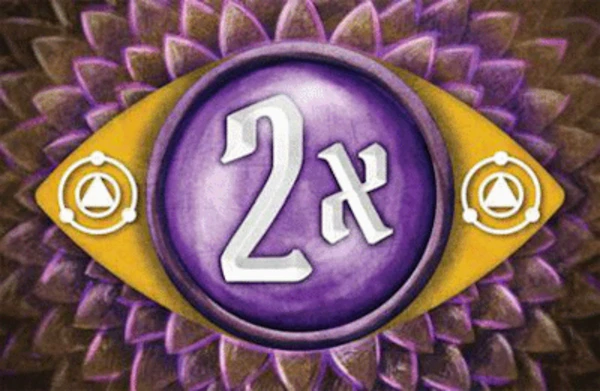
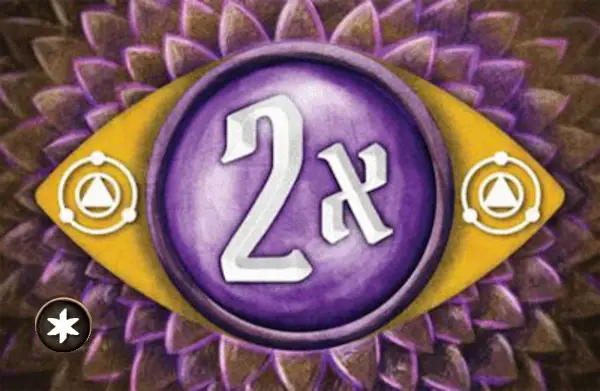
Combine hero/ally bless-curse pool, give ally its own badge, compact GeekRoller codes
Bless/Curse: hero and ally decks now share one combined cap of 10 each
(amIsPartySpecial), separate from the monster deck's own independent
cap of 10. Hero/ally cards show a star badge (from a real card scan),
monster keeps its existing M badge.

Ally deck: base +0/+1/-1/etc cards get their own "A" badge instead of
reusing the monster deck's "M" art, built as an overlay on the existing
clean card art (not a lower-resolution scan) for a crisp, correctly
sized/positioned result.

GeekRoller codes: BGG caps an entire roll at 241 characters total
across every face. Bless/Curse shortened from "Bless"/"Curse" to "B"/"C"
(label unchanged, still used by the UI). Unique-kind perk cards (68 of
them) now use a hand-compacted abbreviation instead of their full perk
text, following the group's existing monster-ability-card shorthand
(M/A/H/S/R/L/T single-letter stats, "->" for Rolling, etc.) --
see docs/unique-geekroller-codes.md for the full derivation. Caught and
fixed one bug before wiring it in: 3 of the 68 labels contained a
literal ";", GeekRoller's own face separator, which would have silently
corrupted the roll.

Changed region(s): [[0.06, 0.7366, 0.15, 0.9207]]

diff --git a/scripts/attackMods.js b/scripts/attackMods.js
@@ -16,14 +16,15 @@ import { MERCENARIES } from './data.js';
 import { heroCatalog, heroPerkClass, perkDelta, perkBoxes, perkLabel, groupPerks } from './amd/heroDeck.js';
 
 // Order = order of faces in the GeekRoller code. Standard cards first, then cards added by imbuement.
+// allyImg: the ally deck's own badge ("A", vs the monster deck's "M") on otherwise identical cards.
 export const AM_TYPES = [
-  { key: 'p0',   face: '+0',   count: 6, value: '+0', img: 'monster/plus0',  shuffle: false },
-  { key: 'p1',   face: '+1',   count: 5, value: '+1', img: 'monster/plus1',  shuffle: false },
-  { key: 'm1',   face: '-1',   count: 5, value: '-1', img: 'monster/minus1',  shuffle: false },
-  { key: 'p2',   face: '+2',   count: 1, value: '+2', img: 'monster/plus2',  shuffle: false },
-  { key: 'm2',   face: '-2',   count: 1, value: '-2', img: 'monster/minus2',  shuffle: false },
-  { key: 'x2',   face: 'x2',   count: 1, value: 'x2', img: 'monster/x2',  shuffle: true  },
-  { key: 'miss', face: 'Miss', count: 1, value: 'null', img: 'monster/miss',  shuffle: true  },
+  { key: 'p0',   face: '+0',   count: 6, value: '+0', img: 'monster/plus0',  allyImg: 'ally/plus0',  shuffle: false },
+  { key: 'p1',   face: '+1',   count: 5, value: '+1', img: 'monster/plus1',  allyImg: 'ally/plus1',  shuffle: false },
+  { key: 'm1',   face: '-1',   count: 5, value: '-1', img: 'monster/minus1', allyImg: 'ally/minus1', shuffle: false },
+  { key: 'p2',   face: '+2',   count: 1, value: '+2', img: 'monster/plus2',  allyImg: 'ally/plus2',  shuffle: false },
+  { key: 'm2',   face: '-2',   count: 1, value: '-2', img: 'monster/minus2', allyImg: 'ally/minus2', shuffle: false },
+  { key: 'x2',   face: 'x2',   count: 1, value: 'x2', img: 'monster/x2',    allyImg: 'ally/x2',     shuffle: true  },
+  { key: 'miss', face: 'Miss', count: 1, value: 'null', img: 'monster/miss', allyImg: 'ally/miss',   shuffle: true  },
   // not in the standard deck (count 0); shown when present or in edit mode
   { key: 'i2m',  face: '+2 Muddle', count: 0, img: 'imbuement/plus2muddle', shuffle: false, extra: true },
   { key: 'i0p',  face: '+0 Poison', count: 0, img: 'imbuement/plus0poison', shuffle: false, extra: true },
@@ -34,9 +35,13 @@ export const AM_TYPES = [
 ];
 
 // Added and removed by hand, temporary. Face text is what goes into the roller code.
+// face is 'B'/'C' (not 'Bless'/'Curse'): up to 10 of each can be in a deck's GeekRoller code at
+// once (the party-wide combined cap, see amIsPartySpecial), and BGG's GeekRoller caps an entire
+// roll at 241 characters total across every face -- so these need to be as short as possible.
+// label stays the full word for the UI (button titles etc.).
 export const AM_SPECIAL = [
-  { key: 'bless', face: 'Bless', img: 'monster/bless', heroImg: 'hero/bless', label: 'Bless', max: 10 },
-  { key: 'curse', face: 'Curse', img: 'monster/curse', heroImg: 'hero/curse', label: 'Curse', max: 10 },
+  { key: 'bless', face: 'B', img: 'monster/bless', heroImg: 'hero/bless', label: 'Bless', max: 10 },
+  { key: 'curse', face: 'C', img: 'monster/curse', heroImg: 'hero/curse', label: 'Curse', max: 10 },
 ];
 
 // Monster imbuement (level 2 includes level 1): changes to the base composition.
@@ -100,6 +105,10 @@ export function amDecks() {
 
 // Hero decks (key 'h<i>') use the hero versions of bless/curse (no monster badge).
 export const amIsHero = g => heroIndex(g) !== undefined;
+
+// Decks whose bless/curse share one combined pool of 10 each (star badge): every hero deck plus
+// the ally deck. The monster deck has its own independent pool of 10 each (M badge).
+export const amIsPartySpecial = g => g === 'a' || amIsHero(g);
 
 // Only the monster deck is imbued.
 export const amSupportsImbue = g => g === 'm';
@@ -215,12 +224,32 @@ export function amReturn(key, g = 'm') {
   save(g, st);
 }
 
+// Current count of `key` (bless/curse) across every party deck (heroes + allies) except `exceptG`.
+function partySpecialTotal(key, exceptG) {
+  let total = exceptG === 'a' ? 0 : (amState('a').deck[key] || 0);
+  (state.mercenaries || []).forEach((h, i) => {
+    const g = 'h' + i;
+    if (g === exceptG || !heroTitle(i)) return;
+    total += amState(g).deck[key] || 0;
+  });
+  return total;
+}
+
+// Highest count deck g's `key` (bless/curse) may reach right now: the monster deck has its own
+// independent cap of spec.max; hero and ally decks share one combined cap of spec.max across the
+// whole party, so a deck's own room shrinks by whatever the rest of the party already holds.
+export function amSpecialCap(key, g) {
+  const spec = AM_SPECIAL.find(s => s.key === key);
+  if (!spec) return 0;
+  return amIsPartySpecial(g) ? Math.max(0, spec.max - partySpecialTotal(key, g)) : spec.max;
+}
+
 // Add (+1) or remove (-1) a bless or curse card.
 export function amAdjust(key, delta, g = 'm') {
   const spec = AM_SPECIAL.find(s => s.key === key);
   if (!spec) return;
   const st = amState(g);
-  const next = Math.max(0, Math.min(spec.max, st.deck[key] + delta));
+  const next = Math.max(0, Math.min(amSpecialCap(key, g), st.deck[key] + delta));
   if (next === st.deck[key]) return;
   st.deck[key] = next;
   save(g, st);

diff --git a/scripts/amd/uniqueFaceText.js b/scripts/amd/uniqueFaceText.js
@@ -1,0 +1,77 @@
+// GeekRoller labels for unique-kind perk cards, hand-compacted from each card's perk text
+// using the abbreviation vocabulary from the group's monster-ability-card convention (M/A/H/S/R/L/T
+// single-letter stats, "->" for Rolling, "immo"/"inv" for the two long condition names, the
+// card's own value separated from the rest by a colon). See docs/unique-geekroller-codes.md for
+// the full derivation and the raw source text each one came from.
+//
+// A code with no entry here falls back to heroDeck.js's generic (longer) text extraction.
+export const UNIQUE_FACE_TEXT = {
+  an1: "+2: strengthen T1 summon",
+  an2: "+1: +1 if drawn by summon",
+  bb1: "active area, next atk: +2A ->",
+  bb2: "-1: gain 1 TT",
+  be1: "+1: suffer dmg2 -> +2",
+  be2: "2x: suffer dmg = half current HP",
+  bn1: "+1: +1/adj ally",
+  bo1: "+1: kill summon: +4 instead",
+  bo2: "H1 T:BO ->",
+  br1: "active area, next atk on you by adj e: Ret2 ->",
+  bs1: "+0: +1/lost card in area",
+  ca1: "+0: bless T:self or 1 ally",
+  ca2: "+2: +1 if monster top card revealed",
+  ca3: "active area, next rift: +1 more R1 ->",
+  ch1: "+1: create 1-hex obstacle adj target ->",
+  cr1: "+1: tide this round: +2 instead",
+  de1: "+0: all adj e suffer dmg1",
+  df1: "+0: move token back 1 slot",
+  ds1: "-1: DS: A2 R5",
+  ds2: "+0: summon adj target: A+0",
+  dt1: "+1: gain 1 trophy",
+  ff1: "+2: create 1-hex icy terrain adj target",
+  ge1: "2x: brittle(self)",
+  ha1: "+0: wound/immo",
+  ha2: "+1: poison/muddle",
+  hv1: "+0: summon: M2",
+  hv2: "+1: Transfer",
+  if1: "+0: move waning elem to strong ->",
+  if2: "+1: per 2 active infusions ->",
+  me1: "+0: gain/lose pressure",
+  me2: "+0: target+adj e suffer dmg1",
+  mt1: "+0: control target: M1",
+  mt2: "+1: +1/neg cond target has",
+  ns1: "+0: adj ally/self: TP2 ->",
+  ns2: "-2: shuffle",
+  ns3: "+1: if kills target: curse->monster deck",
+  ns4: "+1: place TrT adj target",
+  pc1: "+0: +1/neg condition you have",
+  ph1: "+0: PgT: target/e R2",
+  ph2: "poison: target/e R2 ->",
+  py1: "create 1-hex hazard terrain adj target",
+  qm1: "+0: gain 10 Supplies",
+  qm2: "+0: gain Barbed Strip or Iron Plate",
+  qm3: "+0: gain Scroll of Reloc. or Sharp. Dirk ->",
+  sa1: "+1: H1 T1 ally+self",
+  sa2: "+0: ally R3: A2 R3 or A3",
+  sa3: "disarm -> + +0 ally R3: M2 ->",
+  sb1: "-2: adj ally/self: medical pack",
+  sb2: "+1: disarm -> stun",
+  sb3: "+1: +1 if ally has Prescription",
+  sd1: "+0: if forces move: dmg1 ->",
+  sd2: "H1 ward T1 ally ->",
+  sh1: "+0: reveal target's next monster card",
+  sh2: "H2 bless T1 ally ->",
+  sh3: "+1: gain 1 Resonance ->",
+  sk1: "+1: recover lvl1 card (you/adj ally)",
+  sn1: "+1: gain 1 money if atk adj e",
+  so1: "+0: summon: TP2",
+  so2: "+1: inv T1 summon",
+  ss1: "+0: skip moving tokens on active Song",
+  ss2: "ally: M2 or A2 ->",
+  sw1: "+1: +2 if drawn during lost",
+  ta1: "+0: create H2 trap adj target",
+  ta2: "+0: create dmg1 trap adj target",
+  ta3: "+0: trap: +dmg2 or +H2, you R2",
+  ta4: "push2/pull2 to trap ->",
+  wf1: "H2 T:Bear ->",
+  wf2: "+2: +1 if WF+Bear within R4",
+};

diff --git a/scripts/decks.js b/scripts/decks.js
@@ -13,7 +13,7 @@ import { createHoverPreview, previewImage } from './hoverPreview.js';
 import { perkTextHtml } from './amd/perkText.js';
 import { escapeHtml as esc } from './escape.js';
 import {
-  AM_SPECIAL, amDecks, amSupportsImbue, amIsHero, amCardLocked, amState, amClassName, amHeroPerks, amToggleBox, amDeckInfo, amDraw, amReturn, amAdjust,
+  AM_SPECIAL, amDecks, amSupportsImbue, amIsPartySpecial, amSpecialCap, amCardLocked, amState, amClassName, amHeroPerks, amToggleBox, amDeckInfo, amDraw, amReturn, amAdjust,
   amShuffleNow, amEndRoundPatch, amRollerCode, amEditCard, amSetImbue, amResetComposition, AM_MAX_PER_TYPE,
 } from './attackMods.js';
 
@@ -230,7 +230,7 @@ function amTileHtml(c, s, special, g, editMode) {
   let foot;
   if (special) {
     foot = `<div class="am-adj"><button type="button" data-am-adj="${c.key}" data-am-g="${g}" data-d="-1" title="Remove one ${label} card">&minus;</button>
-         <button type="button" data-am-adj="${c.key}" data-am-g="${g}" data-d="1" title="Add one ${label} card" ${n >= c.max ? 'disabled' : ''}>+</button></div>`;
+         <button type="button" data-am-adj="${c.key}" data-am-g="${g}" data-d="1" title="Add one ${label} card" ${n >= amSpecialCap(c.key, g) ? 'disabled' : ''}>+</button></div>`;
   } else if (edit) {
     foot = `<div class="am-adj am-adj--edit"><button type="button" data-am-edit="${c.key}" data-am-g="${g}" data-d="-1" title="Remove one ${label} card from the deck permanently" ${base ? '' : 'disabled'}>&minus;</button>
          <button type="button" data-am-edit="${c.key}" data-am-g="${g}" data-d="1" title="Add one ${label} card to the deck permanently" ${base >= AM_MAX_PER_TYPE ? 'disabled' : ''}>+</button></div>`;
@@ -238,7 +238,11 @@ function amTileHtml(c, s, special, g, editMode) {
     foot = `<button class="am-ret" type="button" data-am-ret="${c.key}" data-am-g="${g}" ${disc ? '' : 'disabled'}
          title="Return one ${label} from the discard to the deck">&#8630; ${disc}</button>`;
   }
-  const src = c.card ? null : assetPath.attackMod(special && c.heroImg && amIsHero(g) ? c.heroImg : c.img);
+  const src = c.card ? null : assetPath.attackMod(
+    g === 'a' && c.allyImg ? c.allyImg :
+    special && c.heroImg && amIsPartySpecial(g) ? c.heroImg :
+    c.img
+  );
   return `<div class="am-tile${!special && !base && !n && !disc ? ' am-tile--none' : ''}">
     <button class="am-card${n ? '' : ' is-empty'}" type="button" data-am-draw="${c.key}" data-am-g="${g}" ${n ? '' : 'disabled'}
         title="${special ? 'Draw (removes the card from the game)' : 'Draw one ' + label}">

diff --git a/scripts/amd/heroDeck.js b/scripts/amd/heroDeck.js
@@ -7,6 +7,7 @@
 //   decorated cards  the art slug, e.g. 'plus0pierce3flip'
 //   unique cards     'u-' + code, e.g. 'u-df1'
 import { PERKS } from '../games/perks.js';
+import { UNIQUE_FACE_TEXT } from './uniqueFaceText.js';
 
 // Mercenary title -> perk class name where the spelling differs.
 const CLASS_ALIAS = { 'HIVE': 'H.I.V.E.' };
@@ -32,8 +33,12 @@ export function cardKey(card) {
 
 const cap = s => s.charAt(0).toUpperCase() + s.slice(1);
 
-// Text for the GeekRoller code: "+0 Pierce 3 Rolling" for decorated faces, the quoted card text of
-// the perk for unique ones (the data has no value for those), else "Unique <code>".
+// Text for the GeekRoller code: "+0 Pierce 3 Rolling" for decorated faces, a hand-compacted
+// abbreviation (see uniqueFaceText.js and docs/unique-geekroller-codes.md) for unique ones with
+// one, else the quoted card text of the perk, else the perk's own (unquoted) description trimmed
+// the same way, else "Unique <code>" as a last resort when a perk has no text at all. BGG's
+// GeekRoller caps an entire roll at 241 characters total across every face, so these all stay
+// short rather than fully describing the effect -- the player can look up the code's meaning.
 function faceText(card, perk) {
   if (card.kind === 'shared') {
     const parts = [card.value];
@@ -43,9 +48,10 @@ function faceText(card, perk) {
     }
     return parts.join(' ').replace(/\s+/g, ' ').trim();
   }
-  const quoted = /"([^"]+)"/.exec(perk?.text || '')?.[1];
-  if (!quoted) return 'Unique ' + card.code;
-  const t = quoted.replace(/%flip%/g, '').replace(/%(\w+)%/g, '$1').replace(/\s+/g, ' ').trim();
+  if (UNIQUE_FACE_TEXT[card.code]) return UNIQUE_FACE_TEXT[card.code];
+  const raw = /"([^"]+)"/.exec(perk?.text || '')?.[1] ?? perk?.text;
+  if (!raw) return 'Unique ' + card.code;
+  const t = raw.replace(/%flip%/g, '').replace(/%(\w+)%/g, '$1').replace(/\s+/g, ' ').trim();
   return t.length > 60 ? t.slice(0, 57) + '...' : t;
 }
 

diff --git a/docs/unique-geekroller-codes.md b/docs/unique-geekroller-codes.md
@@ -1,0 +1,80 @@
+# Unique perk GeekRoller codes (implemented)
+
+Implemented in `scripts/amd/uniqueFaceText.js`, used by `scripts/amd/heroDeck.js`'s `faceText()`. Bless/Curse shortened to `B`/`C` in `scripts/attackMods.js` (AM_SPECIAL.face).
+
+Abbreviation vocabulary (from the monster-ability-card convention): M/A/H/S/R/L/T single-letter stats, `->` for Rolling, `immo`/`inv` for the two long condition names, everything else spelled out. The card's own value is separated from the rest by a colon (`+1: effect`) -- the same "label: content" pattern already used for a granted action (`ally R3: M2`). `A` (Attack) only appears when describing an action granted to a summon/ally (e.g. "DS: A2 R5"), never for the card's own attack bonus, since every card in an attack modifier deck already modifies attack by definition. The word `target` is kept in full when it refers to the attacked enemy as a noun ("adj target"); bare `T` is reserved for the numeric target-count modifier (`T2`, `T+1`). Named token items are abbreviated: `TT`=Time Token, `TrT`=Tear Token, `PgT`=Plague Token. A class name referenced within a perk uses that class's existing 2-letter unique-code prefix, uppercased: `DS`=Doomstalker, `BO`=Boneshaper, `WF`=Wildfury.
+
+BGG's GeekRoller caps an entire roll at 241 characters total across all faces, and the `;` character is reserved as the face separator (checked: none of these 68 labels contain one). These cut the total for unique-card faces from 3117 to 1726 characters (1391 saved) across all 68 cards combined. Max single label: 46 chars.
+
+12 cards (bb1, bo2, br1, ca3, ph2, py1, sa3, sh2, sd2, ss2, ta4, wf1) have no colon-separated value prefix: their source text never states the resulting card's own value, so one was not guessed.
+
+| Class | Edition | Code | Previous | Implemented | Raw text |
+|---|---|---|---|---|---|
+| Anaphi | MP | an2 | Add + 1 attack when drawn by a summon | +1: +1 if drawn by summon | Replace two +0 cards with one +1 "Add + 1 %attack% when drawn by a summon" card |
+| Anaphi | MP | an1 | strengthen, target 1 of your summons | +2: strengthen T1 summon | Add one +2 "%strengthen%, %target% 1 of your summons" card |
+| Banner Spear | FH | bn1 | Add + 1 attack for each ally adjacent to the target | +1: +1/adj ally | Replace one +0 card with one +1 "Add + 1 %attack% for each ally adjacent to the target" card |
+| Berserker | GH2E | be1 | You may suffer damage 2 to add + 2 attack | +1: suffer dmg2 -> +2 | Replace two +0 card with one +1 "You may suffer %damage% 2 to add + 2 %attack%" card |
+| Berserker | GH2E | be2 | Suffer damage equal to half your current hit point value ... | 2x: suffer dmg = half current HP | Add one 2x "Suffer %damage% equal to half your current hit point value (rounded down)" card |
+| Bladeswarm | GH2E | bs1 | Add + 1attack for each card with a lost icon in Bladeswar... | +0: +1/lost card in area | Replace one +0 card with one +0 "Add + 1%attack% for each card with a lost icon in Bladeswarm's active area" card |
+| Blinkblade | FH | bb1 | Place this card in your active area. On your next attack,... | active area, next atk: +2A -> | Replace one +0 card with one "Place this card in your active area. On your next attack, discard this card to add + 2 %attack%" %flip% card |
+| Blinkblade | FH | bb2 | Gain 1 Time token | -1: gain 1 TT | Add one -1 "Gain 1 Time token" |
+| Boneshaper | FH | bo1 | Kill the attacking summon to instead add +4 | +1: kill summon: +4 instead | Replace one +0 with one +1 "Kill the attacking summon to instead add +4" card |
+| Boneshaper | FH | bo2 | heal1, target Boneshaper | H1 T:BO -> | Add three "%heal%1, %target% Boneshaper"%flip% cards |
+| Bruiser | GH2E | br1 | Add this card to your active area. On the next attack tar... | active area, next atk on you by adj e: Ret2 -> | Replace one +0 with one "Add this card to your active area. On the next attack targeting you performed by an adjacent enemy, discard this card to gain %retaliate% 2 for the attack"%flip% card |
+| Cassandra | MP | ca1 | bless, target self or 1 ally | +0: bless T:self or 1 ally | Replace one -1 card with one +0 "%bless%, %target% self or 1 ally" card |
+| Cassandra | MP | ca2 | Add +1 attack if the top card of the monster attack modif... | +2: +1 if monster top card revealed | Replace one +0 card with one +2 "Add +1 %attack% if the top card of the monster attack modifier deck is revealed" |
+| Cassandra | MP | ca3 | Place this card in your active area. When you next place ... | active area, next rift: +1 more R1 -> | Add one +1 "Place this card in your active area. When you next place a rift, discard this card to place another rift within %range% 1 of it"%flip% |
+| Cragheart | GH2E | ch1 | Create one 1-hex obstacle tile in an empty hex adjacent t... | +1: create 1-hex obstacle adj target -> | Replace one +0 card with one +1 "Create one 1-hex obstacle tile in an empty hex adjacent to the target"%flip% card |
+| Crashing Tide | FH | cr1 | If you performed a tide action this round, +2 instead | +1: tide this round: +2 instead | Add two +1 "If you performed a tide action this round, +2 instead" cards |
+| Deepwraith | FH | dt1 | Gain one trophy | +1: gain 1 trophy | add two +1 "Gain one trophy" cards |
+| Demolitionist | JotL | de1 | all adjacent enemies suffer 1 damage | +0: all adj e suffer dmg1 | Add one +0 "all adjacent enemies suffer 1 damage" card |
+| Doomstalker | GH2E | ds1 | Doomstalker performs: attack 2, range 5 | -1: DS: A2 R5 | Replace one -1 card with one -1 "Doomstalker performs: %attack% 2, %range% 5" card |
+| Doomstalker | GH2E | ds2 | Grant one of your summons adjacent to the target: attack+ 0 | +0: summon adj target: A+0 | Add one +0 "Grant one of your summons adjacent to the target: %attack%+ 0" card |
+| Drifter | FH | df1 | Move one of your character tokens backward one slot | +0: move token back 1 slot | Replace one +1 card with two +0 "Move one of your character tokens backward one slot" cards |
+| Frozen Fist | FH | ff1 | Create one 1-hex icy terrain tile in a featureless hex ad... | +2: create 1-hex icy terrain adj target | Replace one +0 cards with one +2 "Create one 1-hex icy terrain tile in a featureless hex adjacent to the target" card |
+| Geminate | FH | ge1 | brittle, self | 2x: brittle(self) | Add one 2x "%brittle%, self" card |
+| H.I.V.E. | FH | hv1 | After this attack ability, grant one of your summons: move 2 | +0: summon: M2 | Replace one -1 card with one +0 "After this attack ability, grant one of your summons: %move% 2" card |
+| H.I.V.E. | FH | hv2 | After this attack ability, Transfer | +1: Transfer | Replace one +0 card with one +1 "After this attack ability, Transfer" card |
+| Hail | MP | ha1 | Replace one -1 card with one +0 wound or immobilize | +0: wound/immo | Replace one -1 card with one +0 %wound% or %immobilize% |
+| Hail | MP | ha2 | Replace two +0 cards with one +1 poison or muddle card | +1: poison/muddle | Replace two +0 cards with one +1 %poison% or %muddle% card |
+| Infuser | FH | if1 | Move one waning element to strong | +0: move waning elem to strong -> | Replace one +0 with three "Move one waning element to strong"%flip% cards |
+| Infuser | FH | if2 | + 1 attack for each pair of active infusions | +1: per 2 active infusions -> | add two "+ 1 %attack% for each pair of active infusions"%flip% cards |
+| Metal Mosaic | FH | me1 | gain or lose pressure | +0: gain/lose pressure | Replace one -1 card with one +0 "gain or lose pressure" card |
+| Metal Mosaic | FH | me2 | The target and all enemies adjacent to it suffer damage 1 | +0: target+adj e suffer dmg1 | Replace one +0 card with one +0 "The target and all enemies adjacent to it suffer %damage% 1" card |
+| Mindthief | GH2E | mt1 | After the attack ability, control the target: move 1 | +0: control target: M1 | Replace two -1 cards with one +0 "After the attack ability, control the target: %move% 1" card |
+| Mindthief | GH2E | mt2 | Add + 1 attack for each negative condition the target has | +1: +1/neg cond target has | Replace one +0 card with one +1 "Add + 1 %attack% for each negative condition the target has" card |
+| Nightshroud | GH2E | ns1 | After the attack ability, grant one adjacent ally or self... | +0: adj ally/self: TP2 -> | Replace one -1 card with two "After the attack ability, grant one adjacent ally or self: %teleport% 2"%flip% cards |
+| Nightshroud | GH2E | ns2 | Replace one null card with one -2 shuffle card | -2: shuffle | Replace one null card with one -2 shuffle card |
+| Nightshroud | GH2E | ns3 | If this attack kills the target, shuffle one curse card i... | +1: if kills target: curse->monster deck | Replace two +0 cards with two +1 "If this attack kills the target, shuffle one %curse% card into the monster attack modifier deck" cards |
+| Nightshroud | GH2E | ns4 | Place one Tear Token in a hex adjacent to the target | +1: place TrT adj target | Replace one +1 card with one "Place one Tear Token in a hex adjacent to the target" card |
+| Pain Conduit | FH | pc1 | add + 1 attack for each negative condition you have | +0: +1/neg condition you have | Add one +0 "add + 1 %attack% for each negative condition you have" card |
+| Plagueherald | GH2E | ph1 | give the target or one enemy within range 2 of the target... | +0: PgT: target/e R2 | Replace one -1 card with one +0 "give the target or one enemy within %range% 2 of the target a Plague Token" cards |
+| Plagueherald | GH2E | ph2 | Give the target or one enemy within range 2 of the target... | poison: target/e R2 -> | Add three "Give the target or one enemy within %range% 2 of the target %poison%"%flip% cards |
+| Pyroclast | FH | py1 | Create one 1-hex hazardous terrain tile in a featureless ... | create 1-hex hazard terrain adj target | Replace one -1 card with one "Create one 1-hex hazardous terrain tile in a featureless hex adjacent to the target" card |
+| Quartermaster | GH2E | qm1 | Gain 10 Supplies | +0: gain 10 Supplies | Replace one +0 card with one +0 "Gain 10 Supplies" card |
+| Quartermaster | GH2E | qm2 | Gain the Barbed Strip or Iron Plate item | +0: gain Barbed Strip or Iron Plate | Replace one +1 card with two +0 "Gain the Barbed Strip or Iron Plate item" cards |
+| Quartermaster | GH2E | qm3 | Gain the Scroll of Relocation or Sharpened Dirk item | +0: gain Scroll of Reloc. or Sharp. Dirk -> | Add one +0"Gain the Scroll of Relocation or Sharpened Dirk item"%flip% card |
+| Satha | MP | sa1 | heal 1, target 1 ally and self | +1: H1 T1 ally+self | Replace two +0 cards with one +1 "%heal% 1, %target% 1 ally and self" card |
+| Satha | MP | sa2 | Grant one ally within range 3: attack 2 range 3 or attack 3 | +0: ally R3: A2 R3 or A3 | Add one +0 "Grant one ally within %range% 3: %attack% 2 %range% 3 or %attack% 3" card |
+| Satha | MP | sa3 | Grant one ally within range 3: move 2 | disarm -> + +0 ally R3: M2 -> | Add one %disarm%%flip% and one +0 "Grant one ally within %range% 3: %move% 2"%flip% card |
+| Sawbones | GH2E | sb1 | Give one adjacent ally or self one medical pack | -2: adj ally/self: medical pack | Replace one -2 card with one -2 "Give one adjacent ally or self one medical pack" card |
+| Sawbones | GH2E | sb2 | You may gain disarm to add stun | +1: disarm -> stun | Replace two +0 cards with one +1 "You may gain %disarm% to add %stun%" card |
+| Sawbones | GH2E | sb3 | Add + 1attack if an ally has an active Prescription | +1: +1 if ally has Prescription | Add two +1 "Add + 1%attack% if an ally has an active Prescription" cards |
+| Shattersong | FH | sh1 | Reveal the top card of the target's monster ability deck | +0: reveal target's next monster card | Replace two -1 cards with two +0 "Reveal the top card of the target's monster ability deck" cards |
+| Shattersong | FH | sh2 | heal 2 bless, target 1 ally | H2 bless T1 ally -> | Add one "%heal% 2 %bless%, %target% 1 ally"%flip% card |
+| Shattersong | FH | sh3 | Gain one Resonance | +1: gain 1 Resonance -> | Add one +1 "Gain one Resonance"%flip% card |
+| Silent Knife | GH2E | sn1 | Gain one money token if this attack targeted an adjacent ... | +1: gain 1 money if atk adj e | Replace one +0 card with one +1 "Gain one money token if this attack targeted an adjacent enemy" card |
+| Snowdancer | FH | sd1 | if this action forces the target to move, it suffers dama... | +0: if forces move: dmg1 -> | Replace two +0 cards with two "if this action forces the target to move, it suffers %damage% 1" %flip% cards |
+| Snowdancer | FH | sd2 | heal 1, ward, target 1 ally | H1 ward T1 ally -> | Add one "%heal% 1, %ward%, %target% 1 ally" %flip% card |
+| Soothsinger | GH2E | ss1 | Skip moving your character tokens on each active Song at ... | +0: skip moving tokens on active Song | Replace one -1 card with one +0 "Skip moving your character tokens on each active Song at the rend of this round%" card |
+| Soothsinger | GH2E | ss2 | Grant one ally: move 2 or attack 2 | ally: M2 or A2 -> | Add one "Grant one ally: %move% 2 or %attack% 2"%flip% card |
+| Soultether | GH2E | so1 | After the attack ability, grant one of your summons: tele... | +0: summon: TP2 | Replace one -1 card with one +0 "After the attack ability, grant one of your summons: %teleport% 2" card |
+| Soultether | GH2E | so2 | invisible, target 1 of your summons | +1: inv T1 summon | Replace one +0 card with one +1 "%invisible%, %target% 1 of your summons" card |
+| Spellweaver | GH2E | sw1 | Add + 2 attack if drawn during a lost action | +1: +2 if drawn during lost | Replace one +0 with one +1 "Add + 2 %attack% if drawn during a lost action" card |
+| Sunkeeper | GH2E | sk1 | You or an adjacent ally may recover one level 1 card from... | +1: recover lvl1 card (you/adj ally) | Add one +1 "You or an adjacent ally may recover one level 1 card from the discard pile" card |
+| Trapper | FH | ta1 | create one heal 2 trap in an empty hex adjacent to the ta... | +0: create H2 trap adj target | Replace one -1 cards with one +0 "create one %heal% 2 trap in an empty hex adjacent to the target" card |
+| Trapper | FH | ta2 | create one damage 1 trap in an empty hex adjacent to the ... | +0: create dmg1 trap adj target | Replace one -1 cards with one +0 "create one %damage% 1 trap in an empty hex adjacent to the target" card |
+| Trapper | FH | ta3 | Add damage 2 or heal 2 to a trap within range 2 of you | +0: trap: +dmg2 or +H2, you R2 | Replace two +0 cards with two +0 "Add %damage% 2 or %heal% 2 to a trap within %range% 2 of you" cards |
+| Trapper | FH | ta4 | Add push 2 or pull 2 | push2/pull2 to trap -> | Add two "Add %push% 2 or %pull% 2"%flip% cards |
+| Wildfury | GH2E | wf1 | heal 2, target the Bear | H2 T:Bear -> | Replace one -1 card with one "%heal% 2, %target% the Bear"%flip% card |
+| Wildfury | GH2E | wf2 | Add + 1attack if the Wildfury and the Bear are within ran... | +2: +1 if WF+Bear within R4 | Replace one +0 card with one +2 "Add + 1%attack% if the Wildfury and the Bear are within %range% 4 of each other" card |
